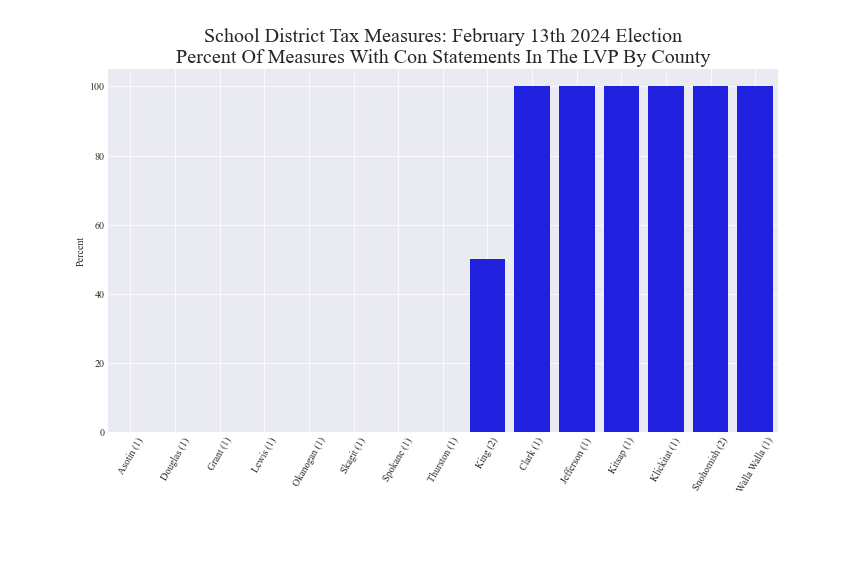
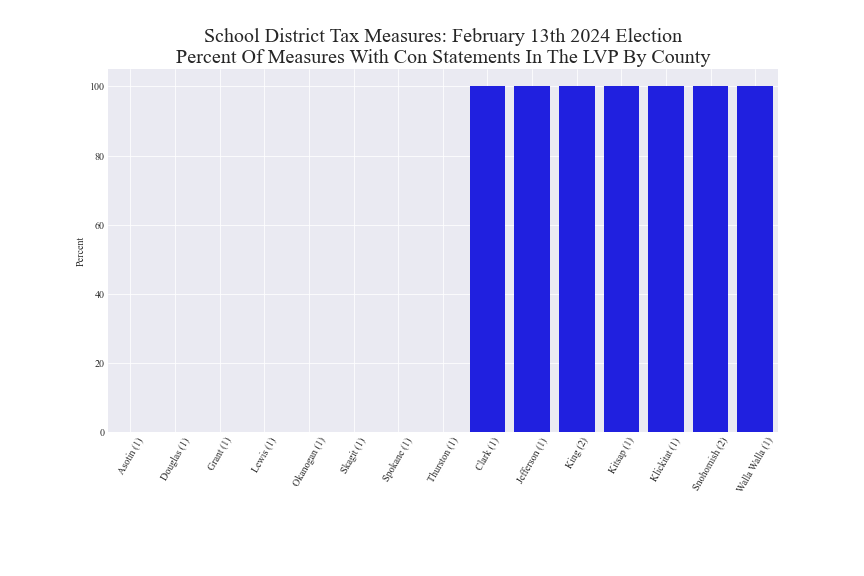
Updated election 20240423

diff --git a/pagesManual/LeviesReport/report_levies_20240423.md b/pagesManual/LeviesReport/report_levies_20240423.md
@@ -4,7 +4,7 @@ title: School District Tax Measures April 23rd 2024
 permalink: report_levies_20240423
 ---
 
-Last updated: March 16th, 2024
+Last updated: March 19th, 2024
 
 In progress.
 
@@ -49,12 +49,12 @@ Listed below are the the types and counts for the tax measures for the February 
 - Enrichment, capital and tech levies
     - Number of levies =  15
     - Number of levies with pro statements =  15
-    - Number of levies with con statements =  7
+    - Number of levies with con statements =  8
 	
 - Counties with 1 or more school district tax measures
     - Number of counties (out of 39 in WA) that have 1 or more tax measures = 15
 	- Number of counties with tax measures that are missing 1 or more pro statements = 0
-	- Number of counties with tax measures that are missing 1 or more con statements = 9
+	- Number of counties with tax measures that are missing 1 or more con statements = 8
 	- Number of counties with tax measures that are missing all con statements = 8
 	
 
